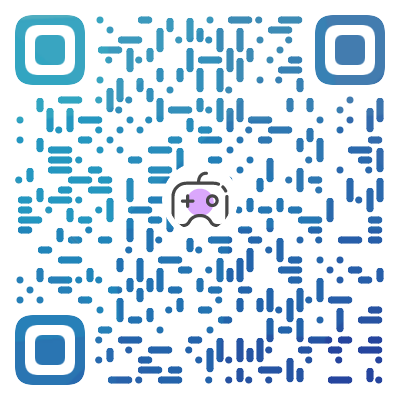
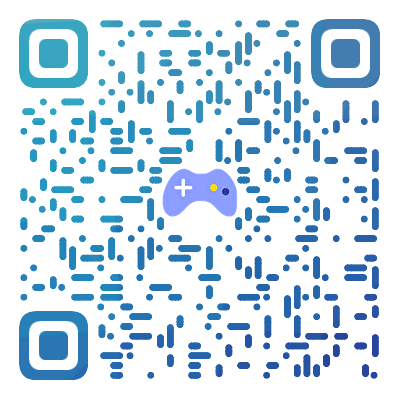
修改二维码

diff --git a/README.md b/README.md
@@ -16,4 +16,4 @@ yarn build
 ```
 
 ### Preview
-![https://gitee.com/lubanseven/eyesight/raw/master/qr.png](https://gitee.com/lubanseven/eyesight/raw/master/qr.png)
+<img src="./qr.png" width="200" />
